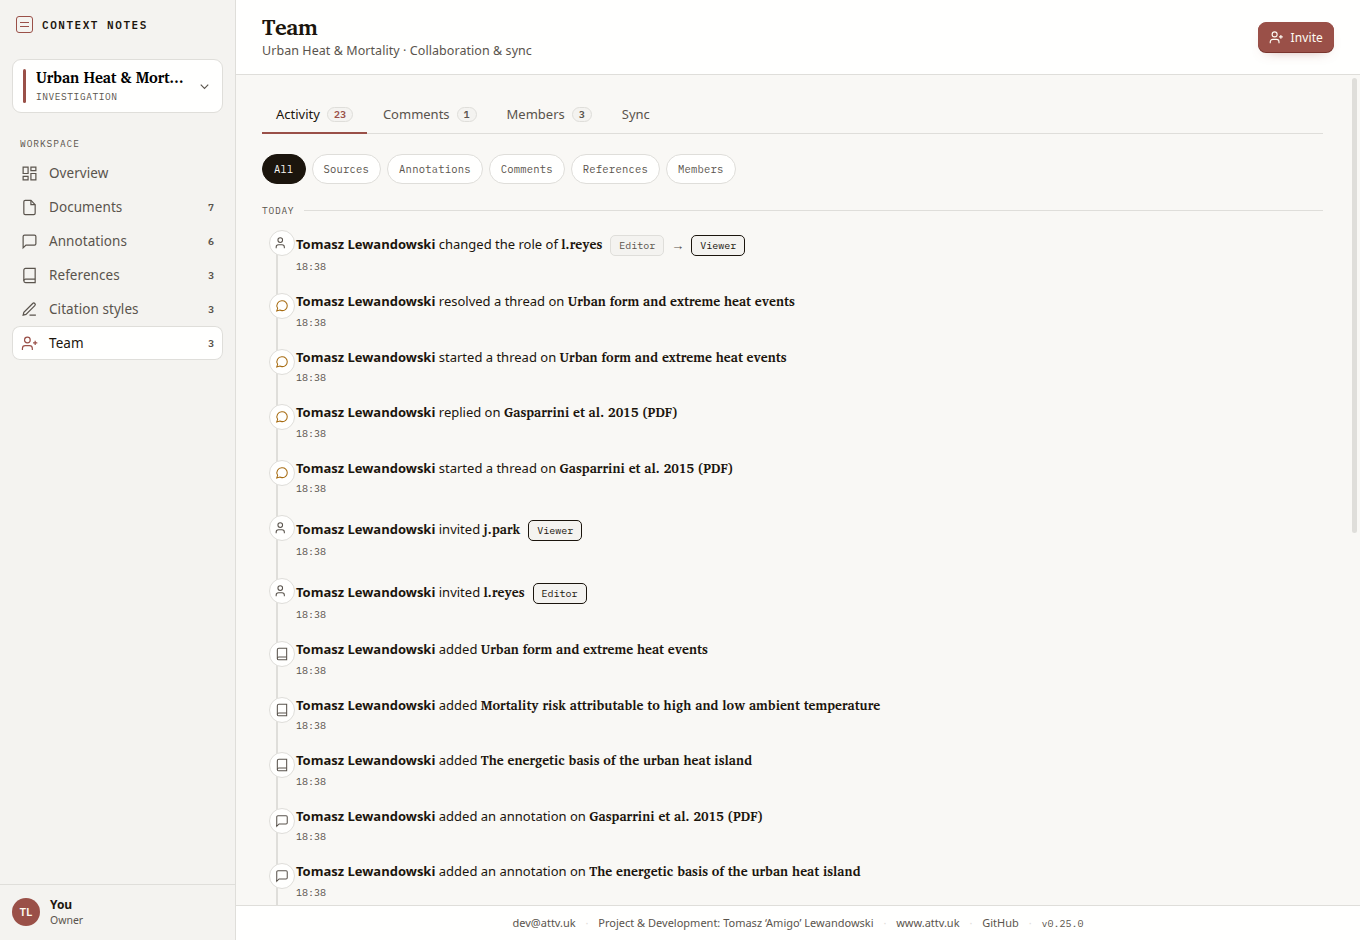
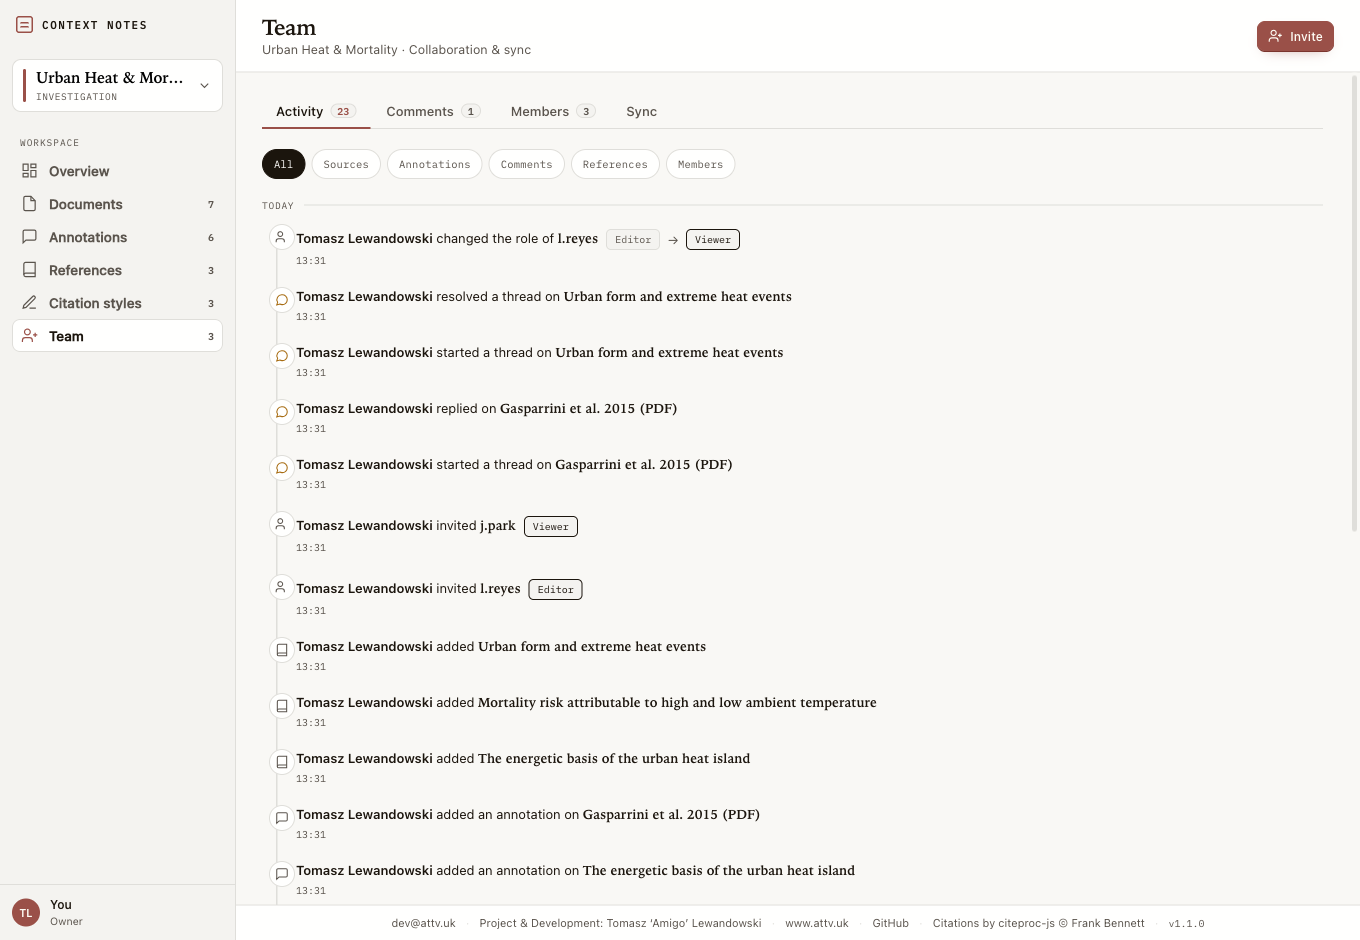
chore(release): v1.1.0 — the metadata release
STATUS.md records the release; every README and Web Store screenshot is
retaken from the v1.1.0 build, so the images show what ships: the Cite
button on reading-list rows, the Edit metadata popover, the direct DOI
import form, Harvard (Solent University) in the style picker, and the
citeproc-js attribution in the dashboard footer.

diff --git a/doc/STATUS.md b/doc/STATUS.md
@@ -1,7 +1,7 @@
 # Project Status & Resume Plan
 
-_Last updated: 2026-08-03 — **v1.0.1, the build to submit to the Chrome Web Store**;
-**all five roadmap phases delivered**; **polish list complete**;
+_Last updated: 2026-08-04 — **v1.1.0, the metadata release — the build to submit to the Chrome
+Web Store**; **all five roadmap phases delivered**; **polish list complete**;
 **v0.27.0 web-page text annotation shipped** (the one capability the audit had deferred); **v0.27.1
 network/annotator hardening pass**; **v0.27.2 web annotations survive SPA navigation**; **v0.27.3
 annotate inside open Shadow DOM**; **v0.27.4 quote cap + honest coarse CSS fallback**; **v0.27.5 no
@@ -15,9 +15,10 @@ cases A2–A8 all closed)**; **v0.28.0 Chrome Web Store distribution packaging**
 out of scope by an explicit decision, and the UI shows it as unavailable rather than pretending.
 
 - **Repo:** https://github.com/AmigoUK/Research-Chrome-Extension
-- **Branch state:** everything through **v1.0.1 is on `main`** (Phases 1–5 + polish + hardening +
-  web-page annotation + Web Store packaging + submission prep). No unmerged work.
-- **Releases:** v1.0.1 failed-highlight toolbar fix; v1.0.0 ready for the Chrome Web Store;
+- **Branch state:** everything through **v1.1.0 is on `main`** (Phases 1–5 + polish + hardening +
+  web-page annotation + Web Store packaging + the metadata release). No unmerged work.
+- **Releases:** v1.1.0 the metadata release (see below); v1.0.1 failed-highlight toolbar fix;
+  v1.0.0 ready for the Chrome Web Store;
   v0.28.0 Chrome Web Store distribution packaging; v0.27.6 honest denied-opt-in
   feedback; v0.27.5 no dead "Jump to" on an unplaced note;
   v0.27.4 quote cap + honest coarse CSS
@@ -27,8 +28,38 @@ out of scope by an explicit decision, and the UI shows it as unavailable rather 
   → v0.14.0 Phase 4; v0.8.0 → v0.12.0 Phase 3; v0.2.0 → v0.7.0 Phase 2; v0.0.1 → v0.1.1 Phase 1.
 - **CI:** GitHub Actions — typecheck → lint → format:check → unit → build, plus an E2E job
   (Playwright under xvfb).
-- **Tests:** 309 unit + 28 E2E (5 PDF viewer + 16 dashboard + 3 side panel + 4 web annotation),
+- **Tests:** 359 unit + 28 E2E (5 PDF viewer + 16 dashboard + 3 side panel + 4 web annotation),
   all green.
+
+### v1.1.0 — the metadata release (2026-08-04)
+
+Driven by a live audit against Google Scholar and real publisher pages (MDPI, Taylor & Francis,
+APS, IngentaConnect, arXiv), which showed every web capture producing a wrong or incomplete
+citation. The release, in fourteen commits, each gated on the full suite:
+
+- **Capture quality:** author names parse into CSL family/given (in-text shortens to the surname,
+  bibliographies invert and sort correctly); the citation_author/dc.creator double list folds to
+  one person each; volume/issue/pages are captured; years recover from online-date fallbacks;
+  arXiv captures as a preprint rather than journal "arXiv.org"; JSON-LD is a fallback source; and
+  a DOI-bearing capture auto-completes from the DOI registry (`documents/enrichFromDoi`).
+- **Guardrails and freshness:** search-results pages (Google Scholar and friends) refuse to file;
+  every successful write broadcasts `data/changed` so the side panel and dashboard stop going
+  stale across windows.
+- **Editing:** every Documents row has an Edit popover over the full bibliographic record, plus
+  "Refresh from DOI"; the style editor snapshots pristine styles and asks before discarding.
+- **New style:** Harvard (Solent University), vendored from the CSL styles repository.
+- **Hardening:** snapshot import validates anchors, metadata field types, and project-id
+  consistency; document DOI dedup normalises; KDF iterations are bounded; imports cannot
+  overwrite the local `me` identity; exports stop leaking other projects' users and now carry
+  referenced custom `.csl` bases; content scripts are limited to the two annotator messages;
+  document deletion cascades to anchored comment threads.
+- **Licensing (store-blocking):** LICENSE added; THIRD-PARTY-NOTICES corrected — citeproc-js is
+  CPAL-1.0 OR AGPL-1.0, redistributed under CPAL-1.0 with its attribution in the dashboard
+  footer; pdf.js Apache-2.0 and CSL CC BY-SA texts reproduced; PRIVACY now describes per-site
+  persistent injection after opt-in, with automatic cleanup on Site-access revocation.
+
+Verified hands-on in Playwright against the built extension on live pages before packaging;
+`release/context-notes-v1.1.0.zip` validates clean (45 files, 0 warnings).
 
 ### v1.0.1 — a failed highlight no longer sticks the toolbar open (2026-08-03)
 
